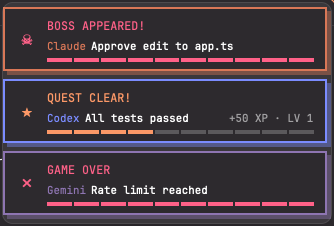
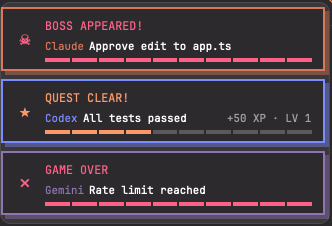
chore: correct toast-quest docs and trim preview

diff --git a/toast-quest/RECIPE.md b/toast-quest/RECIPE.md
@@ -15,7 +15,7 @@ Each card is framed in the color of the agent that sent it (Claude, Codex, Gemin
   Behind it, shifted 4 px down and right, a block in the agent color at 40% opacity: a hard pixel-game shadow.
   - Left: a 20 px glyph in the kind color, in a 24 px column.
   - Heading, 13 px extra bold, in the kind color.
-  - Line two, 12 px: the agent name in the agent color, bold, then the notification body, truncated.
+  - Line two, 12 px: the agent name in the agent color, bold (at most 40% of the card width), then the notification body, truncated.
     The title comes first unless it is Herdr's own "X needs you" / "X finished" for a known agent.
     On the right, in `muted`: `+50 XP · LV n` on a cleared quest, `click to open` on a boss card that has an action.
   - Line three: a bar of 10 segments, 5 px high, 2 px apart.
@@ -31,12 +31,12 @@ Each card is framed in the color of the agent that sent it (Claude, Codex, Gemin
   | notice | `NEW MESSAGE` | `✦`/`✧` | `accent` | XP inside the level |
 
 - XP: every cleared quest adds 50 XP, and 500 XP make a level, starting at level 1.
-  Each card shows the total of the moment it arrived.
+  Each card shows the level and the bar of the moment it arrived.
 - Agent colors: Claude `#D97757`, Codex `#7B8CFF`, Gemini `#8E75B2`, Cursor `#D6D8DB`, Copilot `#3FB950`, OpenCode `#F5A742`, Amp `#F34E3F`, Kiro `#9046FF`, Grok `#A0A4AB`, Kimi `#1783FF`, Crush `#FF6DAA`, Antigravity `#FFE432`.
   Other agents use Herdr's own name for them, framed in the theme `accent`.
   Non-agent notifications show `Herdr`.
 - Monospace font: the first installed of JetBrains Mono, SF Mono, Menlo, Cascadia Mono, Consolas, DejaVu Sans Mono; else the app font.
-- A narrow spot, such as a sidebar: the floating block can pass a card width, `"content": { "mod": "toast-quest", "props": { "width": 228 } }` (180 or more; default 360).
+- A narrow spot, such as a sidebar: the floating block can pass a card width, `"content": { "mod": "toast-quest", "props": { "width": 228 } }` (default 360; a value under 180 counts as 180).
   Under 300 px the XP and `click to open` note moves to a row of its own, under line two.
 
 ## How it behaves
@@ -95,4 +95,4 @@ Each card is framed in the color of the agent that sent it (Claude, Codex, Gemin
 1. `herdr-app check ~/.config/herdr-app/mods/toast-quest` passes.
 2. `herdr-app status` shows no errors and lists `toast-quest` under `floats`.
 3. `herdr-app do toast-quest.demo` shows three cards top right: Claude (orange frame, `BOSS APPEARED!`), Codex (blue frame, `QUEST CLEAR!`, `+50 XP`), Gemini (purple frame, `GAME OVER`).
-4. Running the demo again raises the XP on the Codex card by 50.
+4. Running the demo again lights one more bar segment on the Codex card; at 500 XP the bar empties and `LV` goes up.

diff --git a/docs/install.md b/docs/install.md
@@ -28,8 +28,8 @@ It is careful with your files:
 - Downloaded files are checked before they are installed, and the mod must pass `herdr-app check` before any layout points at it.
 - If it cannot tell where your terminals are in a custom layout, it leaves the layout alone and prints the two entries to add.
 - Running it again when everything is in place changes nothing.
-- Installing another example from this repo puts it in the spot of the one you have (same node, edge, align and props), and `"toast"` points at the new one.
-  The earlier example's folder stays in `mods/`, unused.
+- Installing another example from this repo puts it in the spot of the one you have (same node, edge, align and props) in the layout you are on, and `"toast"` points at the new one.
+  The earlier example's folder stays in `mods/`.
 - It will not replace or remove a mod folder named `toast-agent` that did not come from this repo.
 - It needs `python3` to edit the layout file.
   Without it, the mod is copied and the two entries are printed.
@@ -109,7 +109,8 @@ Edit the layout file; do not use layout.set. Finish with: herdr-app do toast-age
   On the author's machine (Herdr 0.1.15), `layout.set` also reset the layout's theme and side panel sizes.
 - To move the cards, change `edge` (`top`, `right`, `bottom`, `left`) and `align` (`start`, `center`, `end`), or drag the block.
   To put them over another part of the window, move the floating entry to that node in the layout file.
-- `toast-quest` cards can be narrower than 360 px, for a spot such as a sidebar: `"content": { "mod": "toast-quest", "props": { "width": 228 } }`.
+- `toast-quest` cards can be narrower than 360 px, for a spot such as a sidebar: `"content": { "mod": "toast-quest", "props": { "width": 228 } }` (180 at the least).
+  `toast-agent` cards are always 360 px wide.
 - The agent colors are fixed.
   On a light theme the pale ones (Cursor, Antigravity) are faint; change them in the `AGENTS` table in `core.js`.
 - To go back to Herdr's own toast by hand, remove the `"toast"` key and the floating entry, then delete `~/.config/herdr-app/mods/toast-agent/`.
